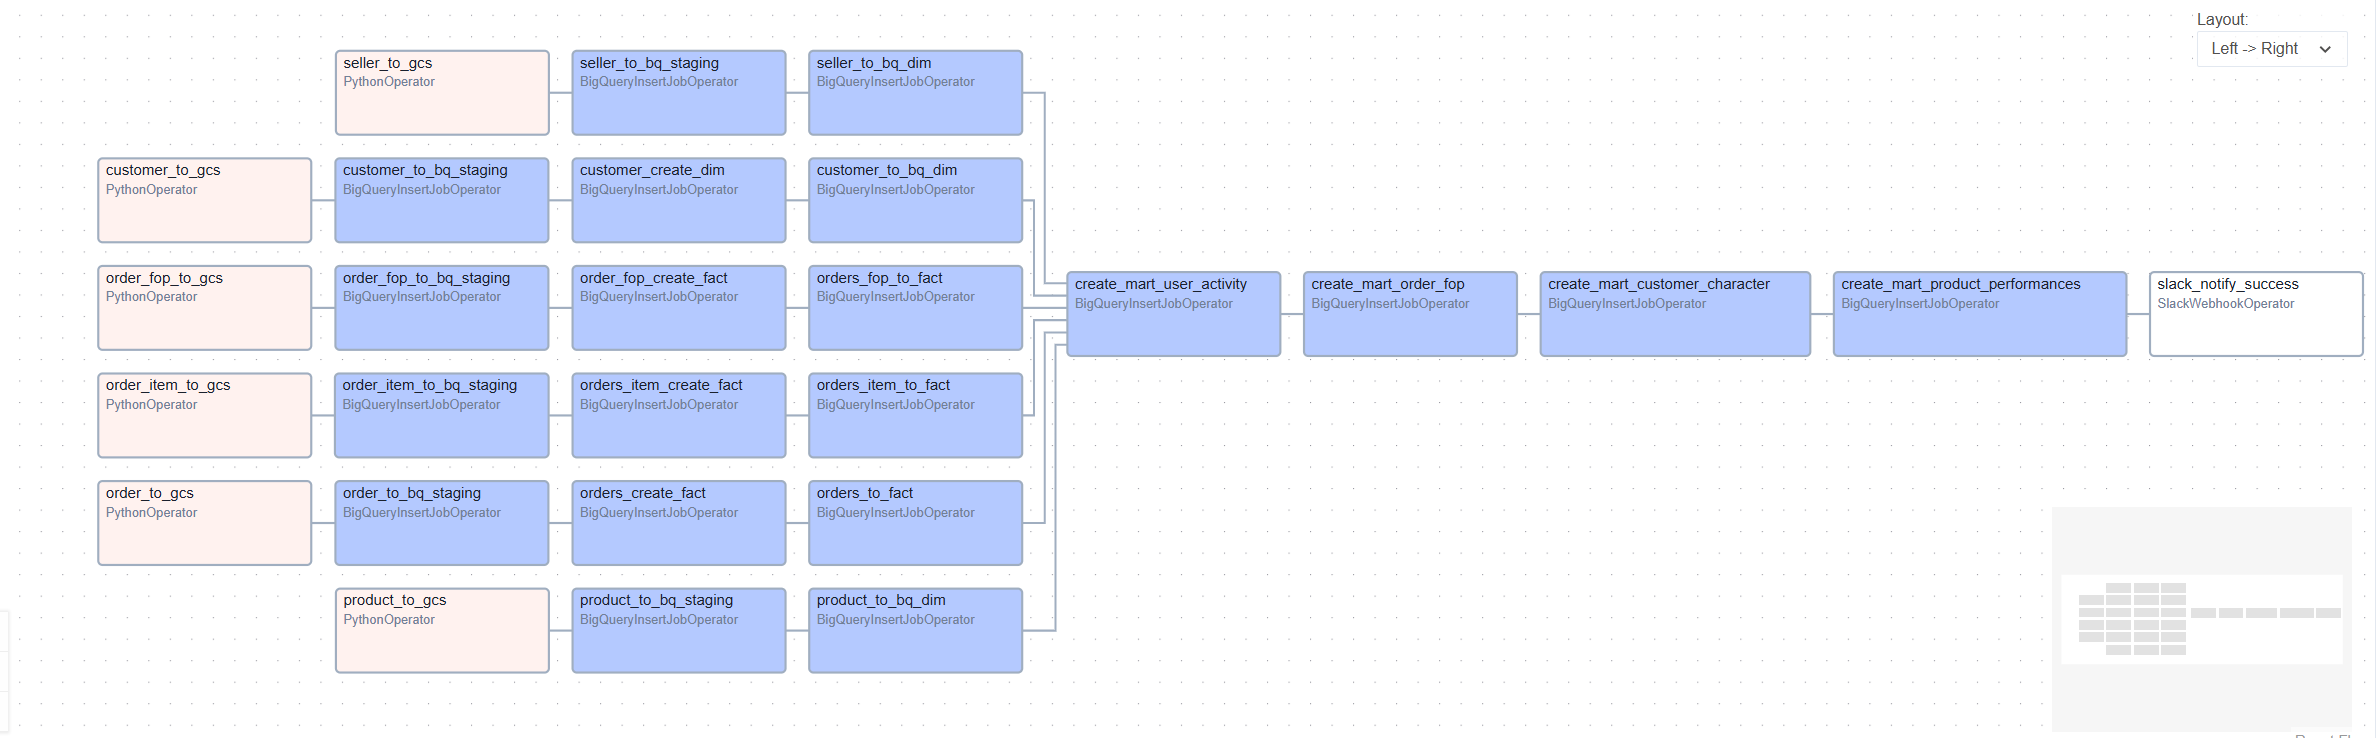
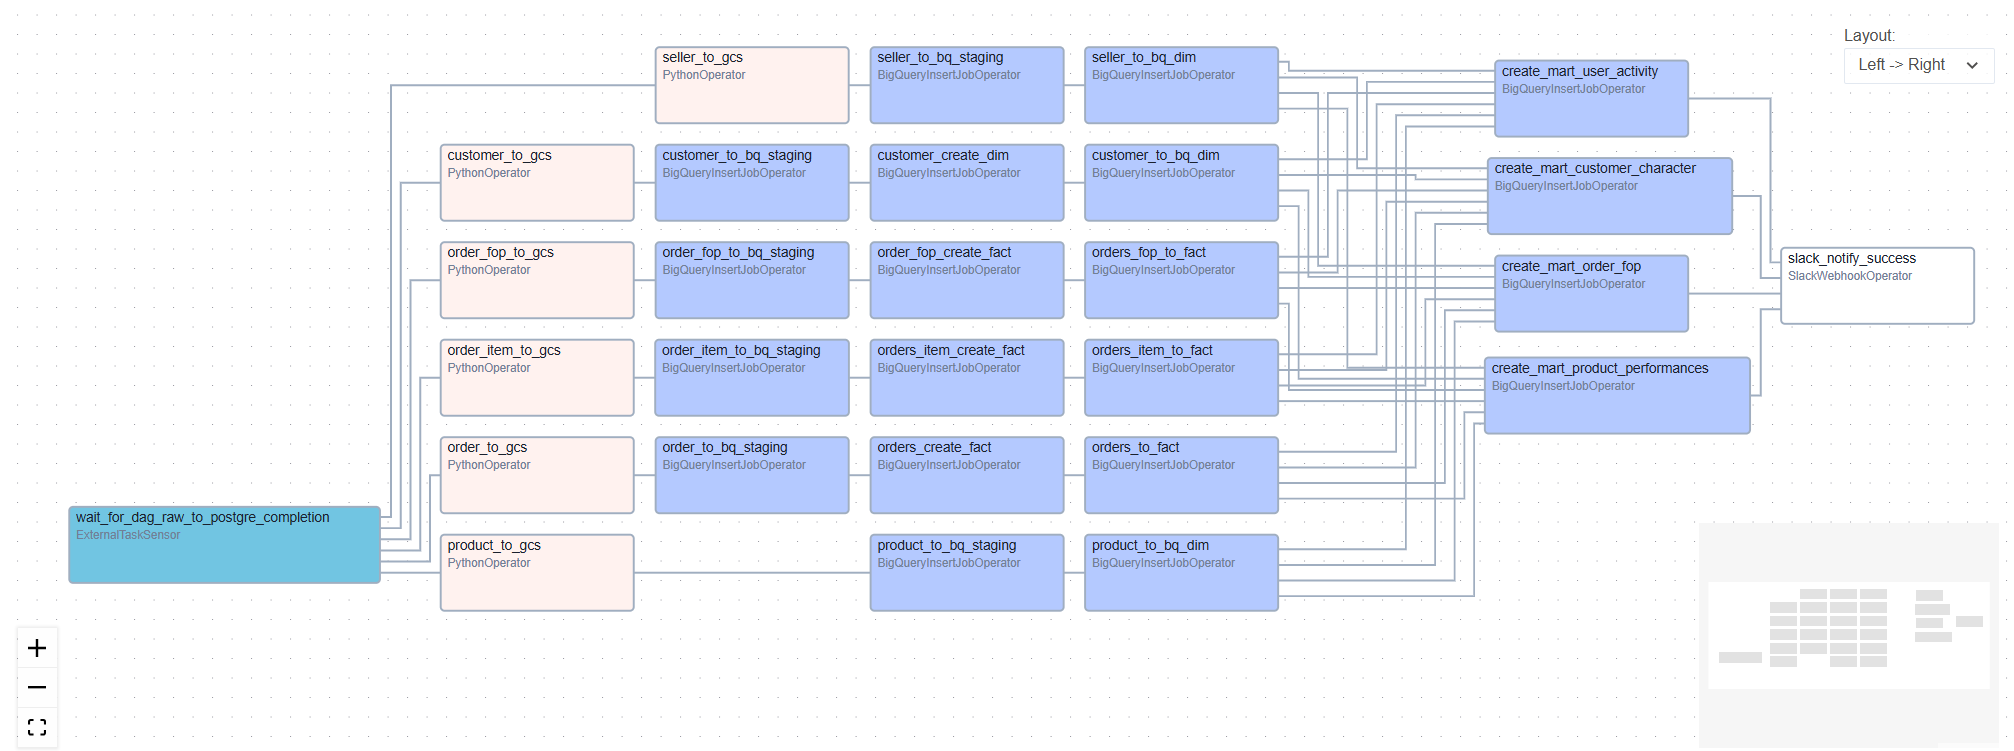
fix dag

diff --git a/dags/local_to_staging_to_DimFact_to_mart.py b/dags/local_to_staging_to_DimFact_to_mart.py
@@ -9,6 +9,9 @@ from airflow.utils.trigger_rule import TriggerRule
 from airflow.providers.slack.operators.slack_webhook import SlackWebhookOperator
 import logging
 
+from airflow.sensors.external_task import ExternalTaskSensor
+from airflow.utils.state import DagRunState
+
 from datetime import datetime, timedelta
 import pandas as pd
 import os 
@@ -141,7 +144,7 @@ def extract_to_bq_stg(
         }
 
     return config
-# ----------------------------------------------------------
+
 # 2. GSC to BQ_staging for dimension
 def extract_to_bq_stgd(
         gcs_file_name,
@@ -180,7 +183,7 @@ def extract_to_bq_stgd(
         }
 
     return config
-# ----------------------------------------------------------
+
 # 2.B. GCS to BQ_staging csv
 def extract_to_bq_stg_csv(
         gcs_file_name,
@@ -269,6 +272,18 @@ with DAG(
     catchup             = True
 ) as dag:
     
+    # ----------------------------------- External Task   -----------------------------------
+    check_dag_rawtopg   = ExternalTaskSensor(
+         task_id            = 'wait_for_dag_raw_to_postgre_completion',
+         external_dag_id    = 'raws_to_postgres',
+         execution_delta    = timedelta(hours=-1),
+         allowed_states     = [DagRunState.SUCCESS, DagRunState.FAILED],
+         failed_states      = [],
+         mode               = 'poke',
+         poke_interval      = 300,
+         timeout            = 60 * 30
+    )
+
     # ----------------------------------- A. Seller Table -----------------------------------
 
     # 1. Seller Extract to GCS Task
@@ -948,20 +963,13 @@ All tasks completed successfully.
 
 
     # --- Steps ---
-    dim_and_fact_tasks = [
-    seller_to_dim,
-    prod_to_dim,
-    cust_to_dim,
-    order_to_fact,
-    order_fop_to_fact,
-    item_to_fact
-]
+    mart_tasks = [mart_user_activity, mart_order_fop, mart_customer_character, mart_product_performance]
 
-    seller_to_gcs   >> seller_to_stg    >> seller_to_dim
-    prod_to_gcs     >> prod_to_stg      >> prod_to_dim
-    cust_to_gcs     >> cust_to_stg      >> cust_create_dim      >> cust_to_dim
-    order_to_gcs    >> order_to_stg     >> order_create_fact    >> order_to_fact
-    order_fop_to_gcs>> order_fop_to_stg >> order_fop_create_fact>> order_fop_to_fact
-    item_to_gcs     >> item_to_stg      >> item_create_fact     >> item_to_fact
+    check_dag_rawtopg >> seller_to_gcs   >> seller_to_stg    >> seller_to_dim        >> mart_tasks
+    check_dag_rawtopg >> prod_to_gcs     >> prod_to_stg      >> prod_to_dim          >> mart_tasks
+    check_dag_rawtopg >> cust_to_gcs     >> cust_to_stg      >> cust_create_dim      >> cust_to_dim         >> mart_tasks
+    check_dag_rawtopg >> order_to_gcs    >> order_to_stg     >> order_create_fact    >> order_to_fact       >> mart_tasks
+    check_dag_rawtopg >> order_fop_to_gcs>> order_fop_to_stg >> order_fop_create_fact>> order_fop_to_fact   >> mart_tasks
+    check_dag_rawtopg >> item_to_gcs     >> item_to_stg      >> item_create_fact     >> item_to_fact        >> mart_tasks
 
-    dim_and_fact_tasks >> mart_user_activity >> mart_order_fop >> mart_customer_character >> mart_product_performance >> slack_success
+    mart_tasks >> slack_success
